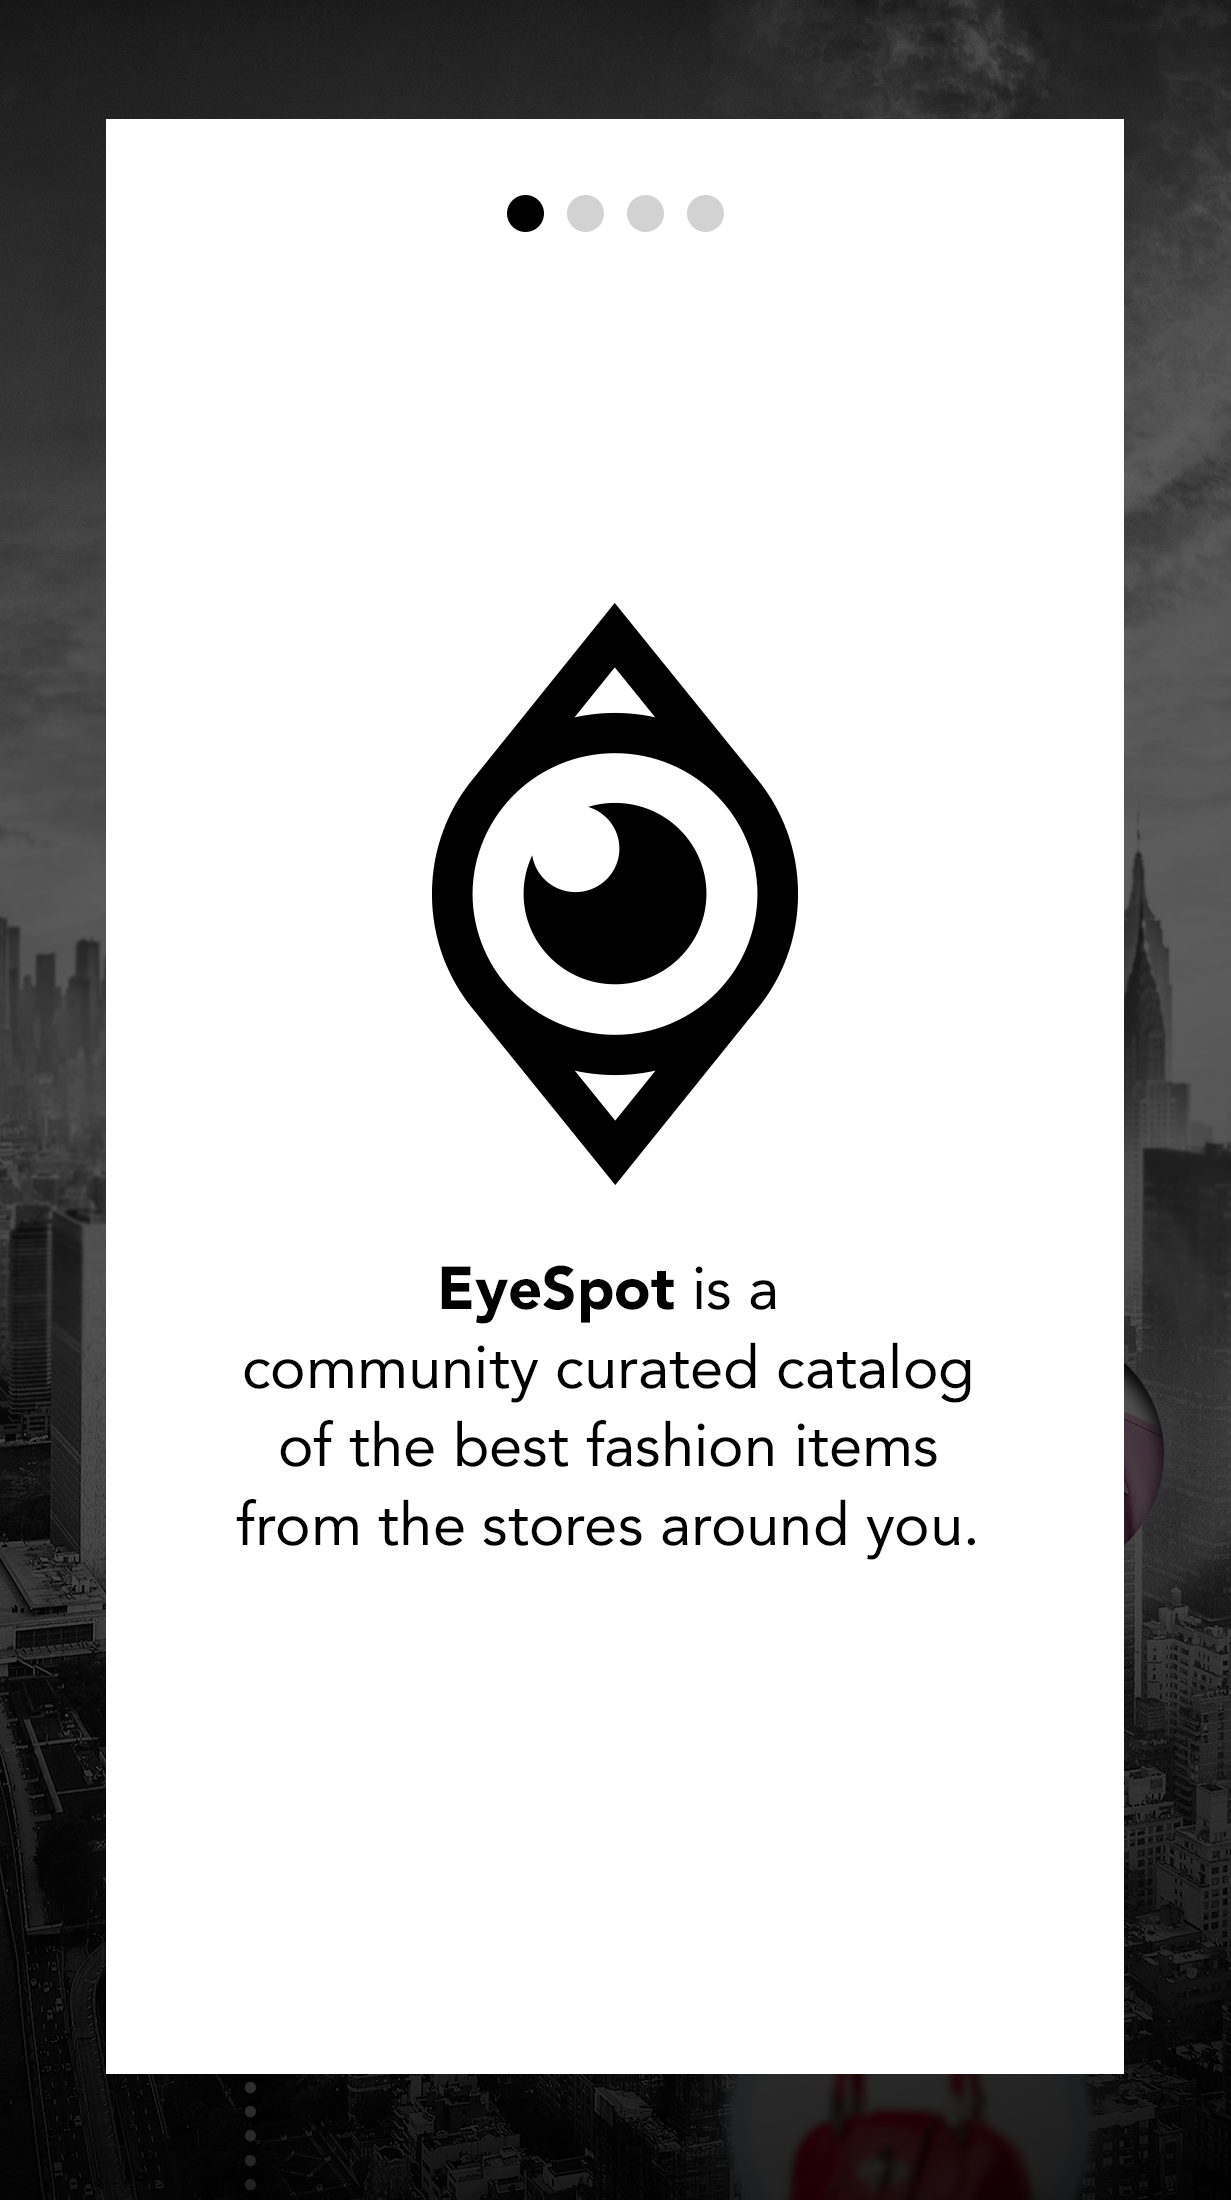
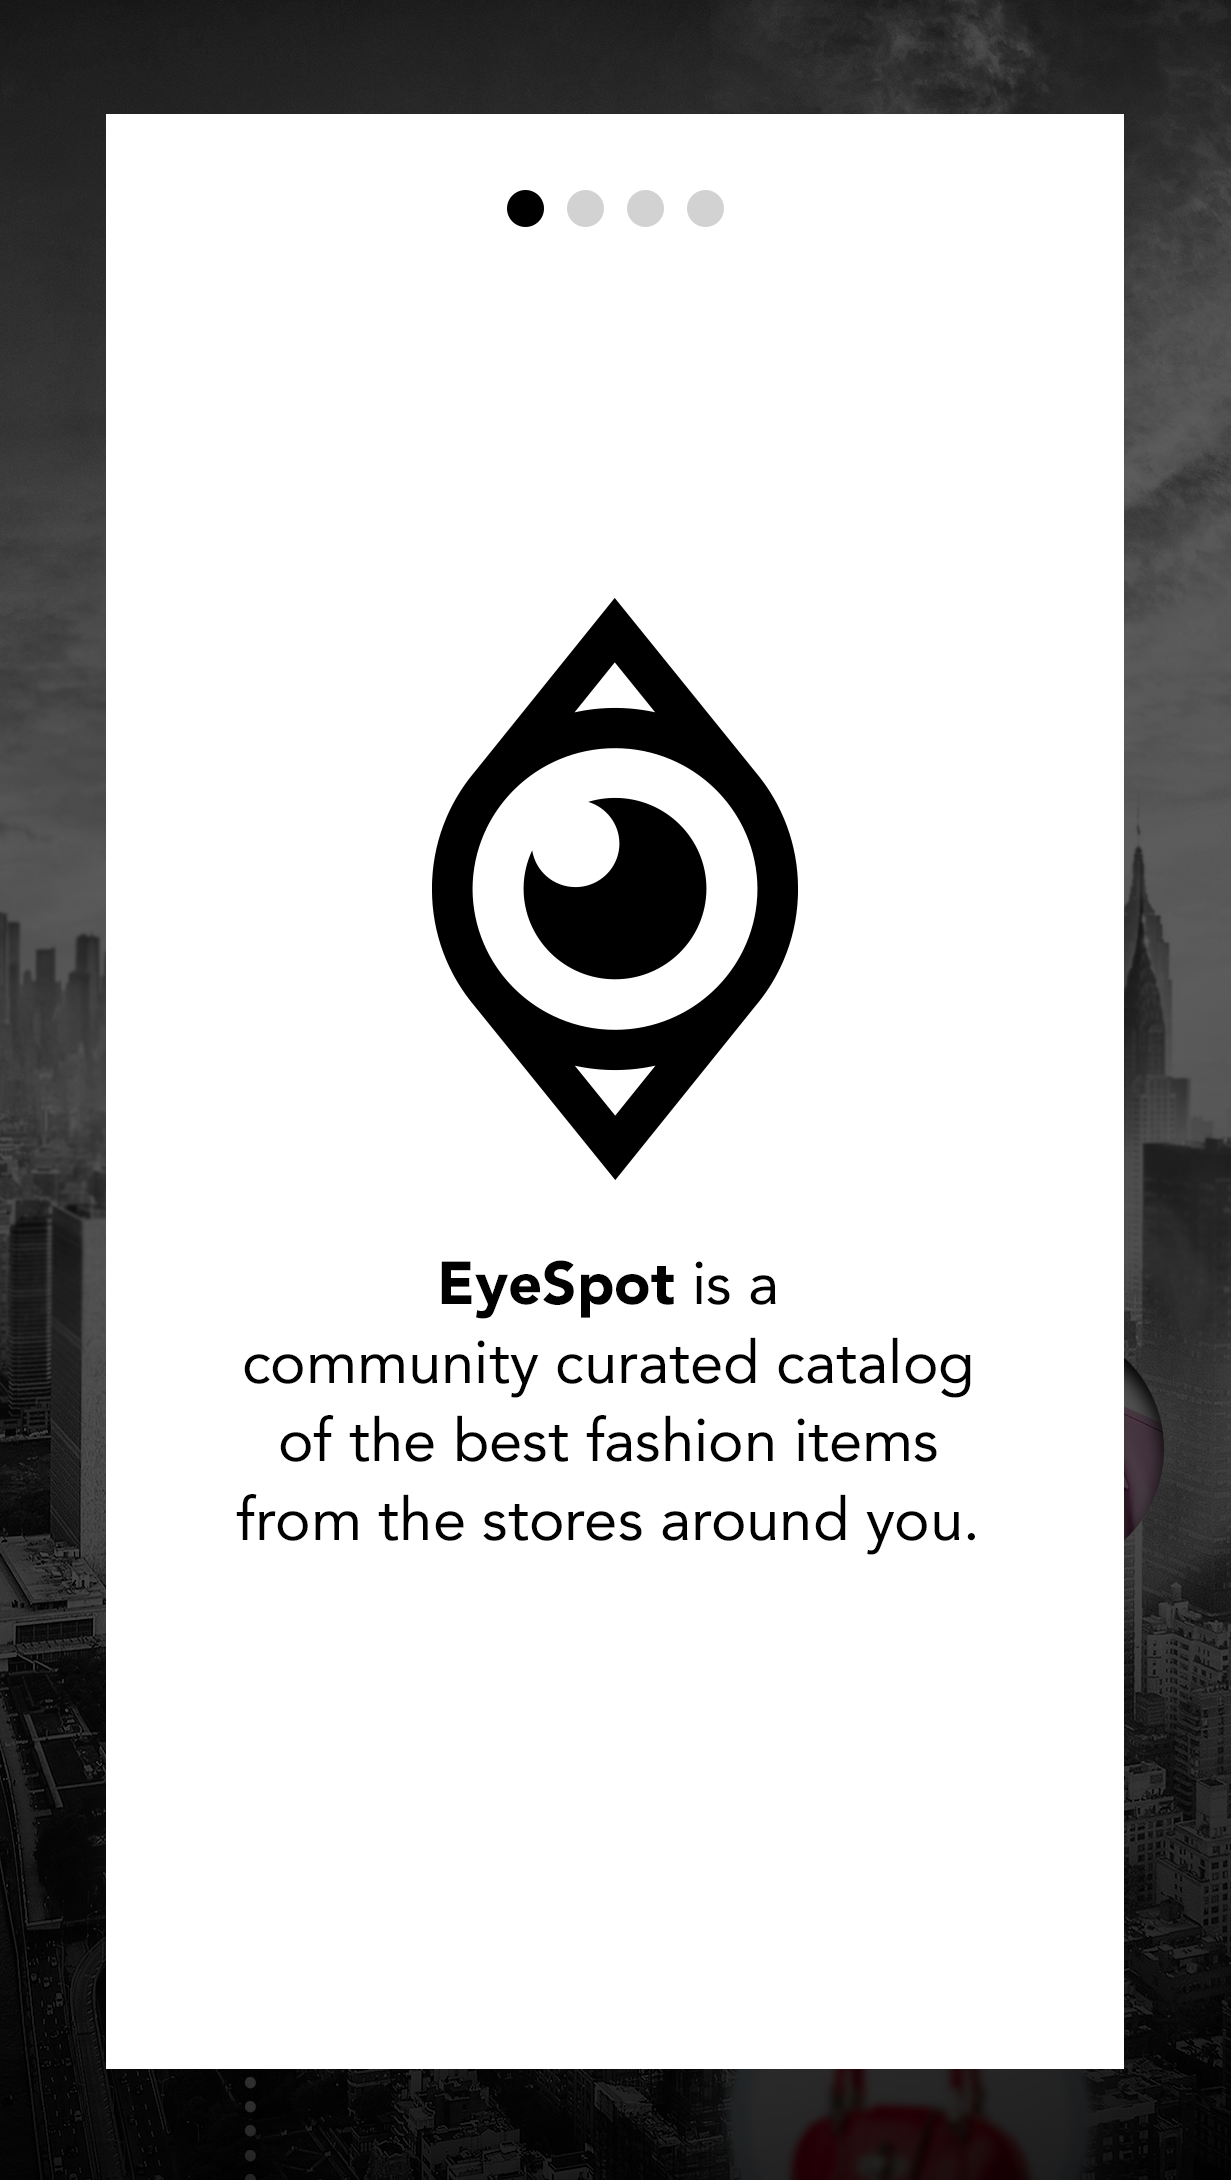
finished

diff --git a/js/components/pages/LoginPage/index.js b/js/components/pages/LoginPage/index.js
@@ -187,14 +187,14 @@ var LoginPage = React.createClass({
                               // React Native doesn't offer open-source tools for password resets at the time
                               AsyncStorage.getItem('@MyStore:uid').then((userId) => {
                                 var ref = firebaseApp.database().ref('users');
-                                ref.on('value', (snap) => {
-                                  if(snap.val() && snap.val()[userId] && snap.val()[userId][email] && snap.val()[userId][password]){
-                                    Communications.email([].concat(snap.val()[userId][email]), null, null, 'Eyespot: Recovered Password.', `Hi! Your recovered password is ${snap.val()[userId][password]}. Thanks for using Eyespot!`);
+                                ref.once('value', (snap) => {
+                                  if(snap.val() && snap.val()[userId] && snap.val()[userId].email && snap.val()[userId].password){
+                                    Communications.email([].concat(snap.val()[userId].email), null, null, 'Eyespot: Recovered Password.', `Hi, ${snap.val()[userId].name}! Your recovered Eyespot password is ${snap.val()[userId].password}. Thanks for using Eyespot!`);
                                     Alert.alert('Email Success', 'Your recovered password has been sent to your email!');
-                                  } else if(snap.val() && snap.val()[userId] && !snap.val()[userId][email]) {
-                                    Alert.alert('Email Login Not Found', 'We did not find a password for your email. You may have signed up with Facebook.');
+                                  } else if(snap.val() && snap.val()[userId] && snap.val()[userId].email) {
+                                    Alert.alert('Email Login Not Found', 'We did not find a password for your email. You may have previously signed up with Facebook.');
                                   } else {
-                                    Alert.alert('Email Send Error', 'We could not send a password recovery email to your address. Please try again.');
+                                    Alert.alert('Email Send Error', 'We could not send a password recovery email to your address, as there is no email on file. Please log in with another method.');
                                   }
                                 });
                               });

diff --git a/js/components/partials/SelectCategory/index.js b/js/components/partials/SelectCategory/index.js
@@ -26,40 +26,39 @@ import NextStepIcon from './img/next-step-icon.png';
 var SelectedRow = React.createClass({
   propTypes: {
     categorySelected: PropTypes.object,
-    selectCategory: PropTypes.func
+    selectCategory: PropTypes.func,
+    selected: PropTypes.string
   },
 
   getInitialState() {
     return {
-      selected: ""
+      selected: this.props.selected || ""
     }
   },
 
   render(){
-    const { selected } = this.state;
-    const { option, categorySelected, selectCategory } = this.props;
+    const { option, selected, selectCategory } = this.props;
     return (
       <TouchableOpacity
         onPress={() => {
           selectCategory(option, this.props.gender);
-          this.setState({selected: option})
         }}
         style={
           [
             styles.category,
-            (categorySelected === option || selected === option ? {borderColor: 'rgba(0,0,0,0.25)'} : {borderColor: 'rgba(0,0,0,0.65)'})
+            (selected === option ? {borderColor: 'rgba(0,0,0,0.25)'} : {borderColor: 'rgba(0,0,0,0.65)'})
           ]
         }>
         <Text
           style={
             [
               styles.categoryText,
-              (categorySelected === option || selected === option ? {opacity: 0.4} : {opacity: 1.0})
+              (selected === option ? {opacity: 0.55} : {opacity: 1.0})
             ]
           }>
           {option}
         </Text>
-        <Image source={NextStepIcon} style={[(categorySelected === option || selected === option ? {opacity: 0.2} : {opacity: 1.0}), styles.nextStepIcon]}/>
+        <Image source={NextStepIcon} style={[(selected === option ? {opacity: 0.2} : {opacity: 1.0}), styles.nextStepIcon]}/>
       </TouchableOpacity>
     )
   }
@@ -69,7 +68,8 @@ var SelectCategory = React.createClass({
 
   propTypes: {
     categorySelected: PropTypes.object,
-    selectCategory: PropTypes.func
+    selectCategory: PropTypes.func,
+    selected: PropTypes.string
   },
   _categoriesKeys: Categories.categoryKeys, //replace with category names (men vs women?)
 
@@ -131,6 +131,7 @@ var SelectCategory = React.createClass({
 						{options.map((option, i) =>
               (
                 <SelectedRow
+                  selected={this.props.selected}
                   key={i}
                   {...this.props}
                   gender={this.state.gender}

diff --git a/js/components/pages/ProductFeed/index.js b/js/components/pages/ProductFeed/index.js
@@ -25,7 +25,7 @@ import _ from 'lodash';
 import BackIcon from '../../partials/icons/navigation/BackIcon';
 import Button from 'apsl-react-native-button';
 import CatalogViewIcon from '../../partials/icons/product/CatalogViewIcon';
-import EyespotNegativeLogo from '../../partials/img/eyespot-logo-negative.png';
+import EyespotLogoNegative from '../../partials/img/eyespot-logo-negative.png';
 import EyespotPageBase from '../EyespotPageBase';
 import Header from '../../partials/Header';
 import Footer from '../../partials/Footer';
@@ -79,7 +79,7 @@ var ProductFeed = React.createClass({
      return {
        catalogViewIconActive: true,
        dataStore: '',
-       historyFilter: 'Last Month',
+       historyFilter: 'All',
        mapsViewIconActive: false,
      }
    },
@@ -209,7 +209,7 @@ var ProductFeed = React.createClass({
          <Header containerStyle={styles.headerContainer}>
            <BackIcon color='white' onPress={this.navigateBack} />
            <View style={styles.pageTitle}>
-             <Image source={EyespotNegativeLogo}
+             <Image source={EyespotLogoNegative}
                    style={styles.pageTitleLogo} />
              <Text style={styles.pageTitleText}>{(categoryName.length > 12 ? categoryName.substring(0,ampersandIdx+1) + ' ...' : categoryName)}</Text>
            </View>
@@ -248,7 +248,7 @@ var ProductFeed = React.createClass({
      const filters = [
        {
          'name' : 'Last Month',
-         dropdown : ['Last Week', 'Last Month', 'Last Year'],
+         dropdown : ['All', 'Last Week', 'Today'],
        },
        {
          'name' : 'Location',
@@ -280,6 +280,7 @@ var ProductFeed = React.createClass({
                     <View style={styles.slide}>
                       <Product
                         key={i}
+                        categoryName={this.props.categoryName}
                         navigator={navigator}
                         onPressMapEmblem={() => {navigator.pop(); this.onPressMapEmblem()}}
                         product={product}

diff --git a/js/components/pages/MapPage/index.js b/js/components/pages/MapPage/index.js
@@ -45,7 +45,7 @@ var MapPage = React.createClass({
 
   getInitialState() {
     return {
-      historyFilter: 'Last Month'
+      historyFilter: 'All'
     }
   },
 
@@ -71,12 +71,15 @@ var MapPage = React.createClass({
     */
 
    _renderHeader() {
+       let { categoryName } = this.props;
+
        return (
            <Header containerStyle={styles.headerContainer}>
                <BackIcon color='white' onPress={() => this.props.navigator.pop()} />
                <View style={styles.pageTitle}>
                  <Image source={EyespotLogoNegative}
-                                 style={styles.pageTitleLogo} />
+                       style={styles.pageTitleLogo} />
+                 <Text style={styles.pageTitleText}>{(categoryName.length > 12 ? categoryName.substring(0,ampersandIdx+1) + ' ...' : categoryName)}</Text>
                </View>
                <View />
            </Header>
@@ -109,7 +112,7 @@ var MapPage = React.createClass({
      const filters = [
        {
          'name' : 'Last Month',
-         dropdown : ['Last Week', 'Last Month', 'Last Year'],
+         dropdown : ['All', 'Last Week', 'Today'],
        },
        {
          'name' : 'Location',
@@ -161,15 +164,15 @@ const styles = StyleSheet.create({
    pageTitleLogo: {
      alignSelf: 'center',
      backgroundColor: 'transparent',
-     width: width / 3.2,
-     height: height / 24,
+     width: width / 3.9,
+     height: height / 30,
      resizeMode: Image.resizeMode.contain
    },
    pageTitleText: {
      color: '#fff',
-     fontSize: height / 40,
+     fontSize: height / 42,
      fontFamily: 'BodoniSvtyTwoITCTT-Book'
-   }
+   },
 });
 
 /*

diff --git a/js/components/pages/ContributePage/swiperViews/ProductAndLocationView.js b/js/components/pages/ContributePage/swiperViews/ProductAndLocationView.js
@@ -87,11 +87,14 @@ var ProductAndLocationView = React.createClass({
     });
   },
 
-  selectCategory(selectedStyle, gender){
+  selectCategory(selected, gender){
     let category, categoryThumbMap = Categories.categoryThumbMap;
 
+    // update selected to determine which option is highlighted in selectCategory
+    this.setState({selected});
+
     if(gender === 'women') {
-      switch(selectedStyle) {
+      switch(selected) {
         case 'Top':
             category = categoryThumbMap['shirts_and_top_w'];
             break;
@@ -112,7 +115,7 @@ var ProductAndLocationView = React.createClass({
       }
 
     if(gender === 'men') {
-      switch(selectedStyle) {
+      switch(selected) {
         case 'Top':
             category = categoryThumbMap['shirts_m'];
             break;
@@ -170,7 +173,7 @@ var ProductAndLocationView = React.createClass({
   },
 
 	render() {
-		const { storeSelected, categorySelected, location } = this.state;
+		const { storeSelected, categorySelected, selected, location } = this.state;
 
     if(!location){
       return null
@@ -199,6 +202,7 @@ var ProductAndLocationView = React.createClass({
             </View>
         </TouchableOpacity>
         <SelectCategory
+          selected={selected}
           selectCategory={this.selectCategory}
           categorySelected={this.state.categorySelected}/>
 			</View>

diff --git a/js/components/partials/Product/index.js b/js/components/partials/Product/index.js
@@ -39,6 +39,7 @@ var {height, width} = Dimensions.get('window'); /* gets screen dimensions */
 var Product = React.createClass({
 
   propTypes: {
+    categoryName: PropTypes.string,
     product: PropTypes.object.isRequired,
     navigator: PropTypes.object,
     onPressMapEmblem: PropTypes.func,
@@ -51,7 +52,7 @@ var Product = React.createClass({
 
   render() {
 
-    const { navigator, user, product } = this.props;
+    const { categoryName, navigator, user, product } = this.props;
 
     return (
       <View style={styles.product}>
@@ -64,6 +65,7 @@ var Product = React.createClass({
             user={user}
             navigator={navigator}/>
           <Location
+            categoryName={categoryName}
             navigator={navigator}
             onPressMapEmblem={this.props.onPressMapEmblem}
             product={product}/>

diff --git a/js/components/partials/Product/components/Location.js b/js/components/partials/Product/components/Location.js
@@ -32,6 +32,7 @@ var {width} = Dimensions.get('window'); /* gets screen dimensions */
 var Location = React.createClass({
 
   propTypes: {
+    categoryName: PropTypes.string,
     navigator: PropTypes.object,
     onPressMapEmblem: PropTypes.func,
     product: PropTypes.object
@@ -40,12 +41,14 @@ var Location = React.createClass({
   handlePress(){
     // lazy load
     const MapPage = require('../../../pages/MapPage');
+    let { categoryName, onPressMapEmblem, product } = this.props;
 
     this.props.navigator.push({
       title: 'MapPage',
       component: MapPage,
       passProps: {
-        onPressMapEmblem: this.props.onPressMapEmblem,
+        categoryName: categoryName,
+        onPressMapEmblem: onPressMapEmblem,
         products : [this.props.product]
       }
     });

diff --git a/js/components/partials/Product/components/Contributor.js b/js/components/partials/Product/components/Contributor.js
@@ -82,8 +82,8 @@ var Contributor = React.createClass({
         }} style={styles.profileContainer}>
           {ProfileImage}
         </TouchableOpacity>
-        <Text style={[styles.bodoni, {fontStyle: 'italic'}]}>spotted by</Text>
-        <Text style={[styles.name, styles.bodoni, {bottom: height/140}]}>{username}</Text>
+        <Text style={[styles.bodoni, {fontStyle: 'italic'},{bottom: height/180}]}>spotted by</Text>
+        <Text style={[styles.name, styles.bodoni, {bottom: height/180}]}>{username}</Text>
       </View>
     );
   }
@@ -139,7 +139,7 @@ const styles = StyleSheet.create({
  bodoni: {fontFamily: 'BodoniSvtyTwoITCTT-Book' },
  name: {
    color: 'red',
-   fontSize: height/25
+   fontSize: height/27
  }
 });
 

diff --git a/js/components/pages/OnboardingPage/index.js b/js/components/pages/OnboardingPage/index.js
@@ -81,7 +81,8 @@
  		return (
           <EyespotPageBase
               keyboardShouldPersistTaps={false}
-              noScroll={true}>
+              noScroll={true}
+              style={{marginBottom: 0, paddingBottom: 0}}>
               <View style={styles.container}>
                {swiper}
                </View>
@@ -102,7 +103,7 @@
       alignItems: 'center',
     },
     img: {
-      height,
+      height: height / 1.01,
       width,
       resizeMode: Image.resizeMode.cover,
     },
@@ -113,6 +114,7 @@
      height,
    },
    wrapper: {
+     height: height * 1.01,
      backgroundColor: '#fff',
      bottom: height/32.5,
    }

diff --git a/js/components/pages/LocationPage/index.js b/js/components/pages/LocationPage/index.js
@@ -102,11 +102,13 @@ var LocationPage = React.createClass({
         <EyespotPageBase
           keyboardShouldPersistTaps={false}
           noScroll={false}>
+          <View style={{paddingTop: height/36}}>
           <PlacesAutocomplete
             myLocation={this.props.location}
             places={this.state.places}
             navigator={this.props.navigator}
             setStore={this.props.setStore}/>
+          </View>
         </EyespotPageBase>
         {/*}<View style={styles.fixedFooterWrapper}>
            {nextButton}

diff --git a/js/components/partials/FilterBar/index.js b/js/components/partials/FilterBar/index.js
@@ -73,6 +73,10 @@ var Dropdowns = React.createClass({
 
        if(findOne(selected, _.difference(dropdown, ['All'])) && dropdownItem === 'All') return {color: 'black'}
      }
+
+     if(filterName === 'Last Month' && selected.indexOf('Last Week') > -1 || selected.indexOf('Today') > -1) {
+       if(dropdownItem === 'All') return {color: 'black'}
+     }
    }
  },
 
